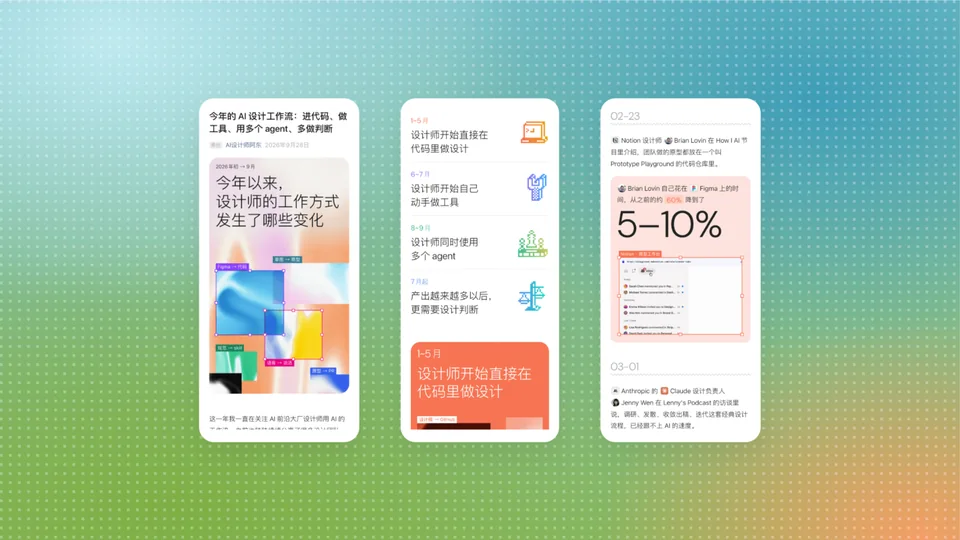
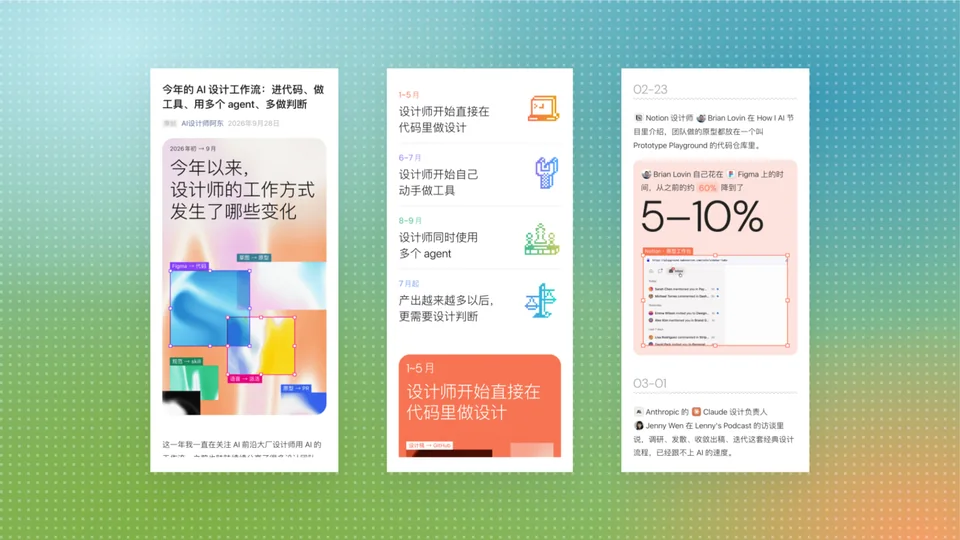
公众号作品左图：三屏手机 0.88、直角

diff --git a/docs/simple.css b/docs/simple.css
@@ -891,9 +891,9 @@ body.theme-vt *::after {
    左 = 这篇文章报告体的主色珊瑚 #F77353(13% 浅色),右 = 黄色 #F2CF1D(16% 浅色,封面系统的黄,用户定);深色主题取同色压暗 */
 /* 2026-10-25 试过作品集第 5、6 页的「效果背景」(深色底 + 柔光 + 颗粒,图还留在
    writing/assets/works/showcase/bg-article.webp、bg-covers.webp),用户:黑色太重,改回统一浅灰 */
-/* 三屏手机整组缩到 0.75、聚在容器中间,四周多露出背景(2026-10-31 用户:三个页面展示在中间;试过放大 1.5 倍,不对);
+/* 三屏手机整组缩小、聚在容器中间,四周多露出背景(2026-10-31 用户:三个页面展示在中间;试过放大 1.5 倍,不对);
    用独立的 scale 属性,不和 hover 放大的 transform 冲突 */
-.sc-pane-article .sc-phones { scale: 0.75; }
+.sc-pane-article .sc-phones { scale: 0.88; }   /* 0.75 太小 → 0.88(2026-10-31 用户) */
 .sc-pane-article {
     /* 左块(三屏手机)背景照参考图(2026-10-31 用户):模糊的大色块渐变(左上浅青、右上蓝绿、左下草绿、右下橙)
        + 一层白色小方点网格。只用在导出的位图里,深浅色主题一样 */
@@ -949,7 +949,7 @@ body.theme-dark .mesh-bg { filter: brightness(0.55) saturate(0.9); }
     height: 27.6em;
     overflow: hidden;
     border: 0.35em solid #fff;
-    border-radius: 1.2em;   /* 手机圆角收小:2em → 1.2em(×0.475 ≈ 6px @560) */
+    border-radius: 0;   /* 直角(2026-10-31 用户;原 1.2em 圆角) */
     background: #fff;
     box-shadow: 0 0.8em 2.4em rgba(0, 0, 0, 0.08);   /* 投影收淡、中性灰(2026-10-24 随浅灰底改),原 0.18 太黑太脏(2026-10-23 用户) */
 }

diff --git a/site/src/pages/home/works.ts b/site/src/pages/home/works.ts
@@ -45,7 +45,7 @@ export const WORKS: Work[] = [
     /* 网站上用整张位图(2026-10-31 用户:任何作品的加载态都是 16:9 整图):由下面的 showcase 拼图导出,
        改了拼图跑 node site/scripts/build-work-showcase-bitmap.mjs 重新导出(导出时页面加 ?render-showcase 显示拼图原版) */
     gallery: [
-      { src: 'writing/assets/works/gallery/wechat-ai-1.webp?v=16' },
+      { src: 'writing/assets/works/gallery/wechat-ai-1.webp?v=17' },
       { src: 'writing/assets/works/gallery/wechat-ai-2.webp?v=16' },
     ],
     showcase: {

diff --git a/site/index.html b/site/index.html
@@ -15,7 +15,7 @@
 <!-- v4 简化版(2026-10-23):单页、无 loading、无转场;只加载 simple.css 一份样式。
      老的 style.css / writing.css 仍服务旧的 Blog / Archive / 文章页。 -->
 <style>html { background: #FDFDFC; }</style>
-<link href="simple.css?v=442" rel="stylesheet"/>
+<link href="simple.css?v=443" rel="stylesheet"/>
 <!-- 只用其中的主题函数(applySiteTheme / toggleSiteTheme),不调 initSiteNav -->
 <script src="nav-boot.js?v=20"></script>
 </head>
